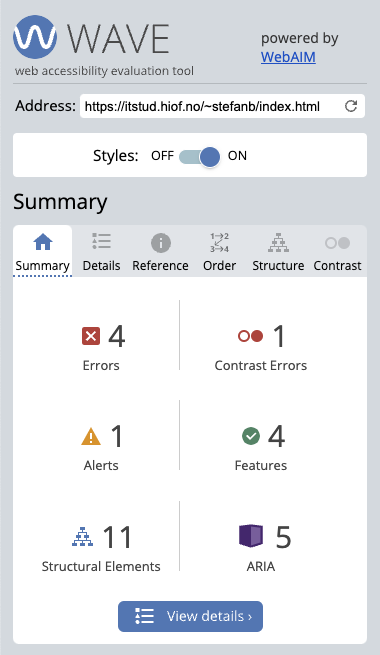
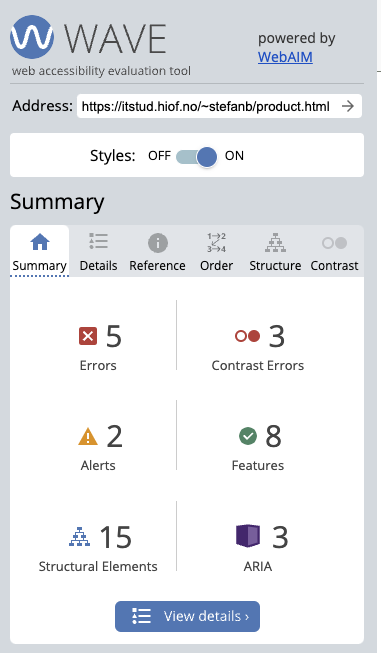
WAVE check done. Now check with GPT

diff --git a/analyse.html b/analyse.html
@@ -155,6 +155,31 @@
           simplicity that is the way it was developed. It was not, and is not,
           necessary to have them linked anywhere.
         </p>
+        <h4>WAVE check pre alterations, product.html:</h4>
+        <img src="img/analyse-img/WAVE_product_before.png" />
+        <p>
+          Again, as in index.html, it identifies errors regarding empty links.
+          Again, this is for the sake of simplicity when developing oblig 3. I
+          also get 3 errors regarding very low contrast on my banner where the
+          breadcrumb trail is for displaying where you have navigated to. Last
+          error for contrast is the text "popular brands". I also get 2 alerts.
+          The first is for the fact that the 2 Hoka shoes have the same alt
+          text. Second alert is for the underlined text in the LIMITED EDITION
+          label on the Nike shoe. It should be removed as it indicates that the
+          label is a link, which it technically is not in this case even though
+          the image as a whole is clickable.
+        </p>
+        <h4>WAVE check pre alterations, customerService.html:</h4>
+        <img src="img/analyse-img/WAVE_custserv_before.png" />
+        <p>
+          Same issues here as in both index and product page. Missing/empty
+          links and contrast error raised for the low contrast text in the
+          search field.
+        </p>
+      </section>
+
+      <section id="GPTreview">
+        <h3>SEO and UU analysis of pages using CHatGPT</h3>
       </section>
     </main>
     <footer></footer>
